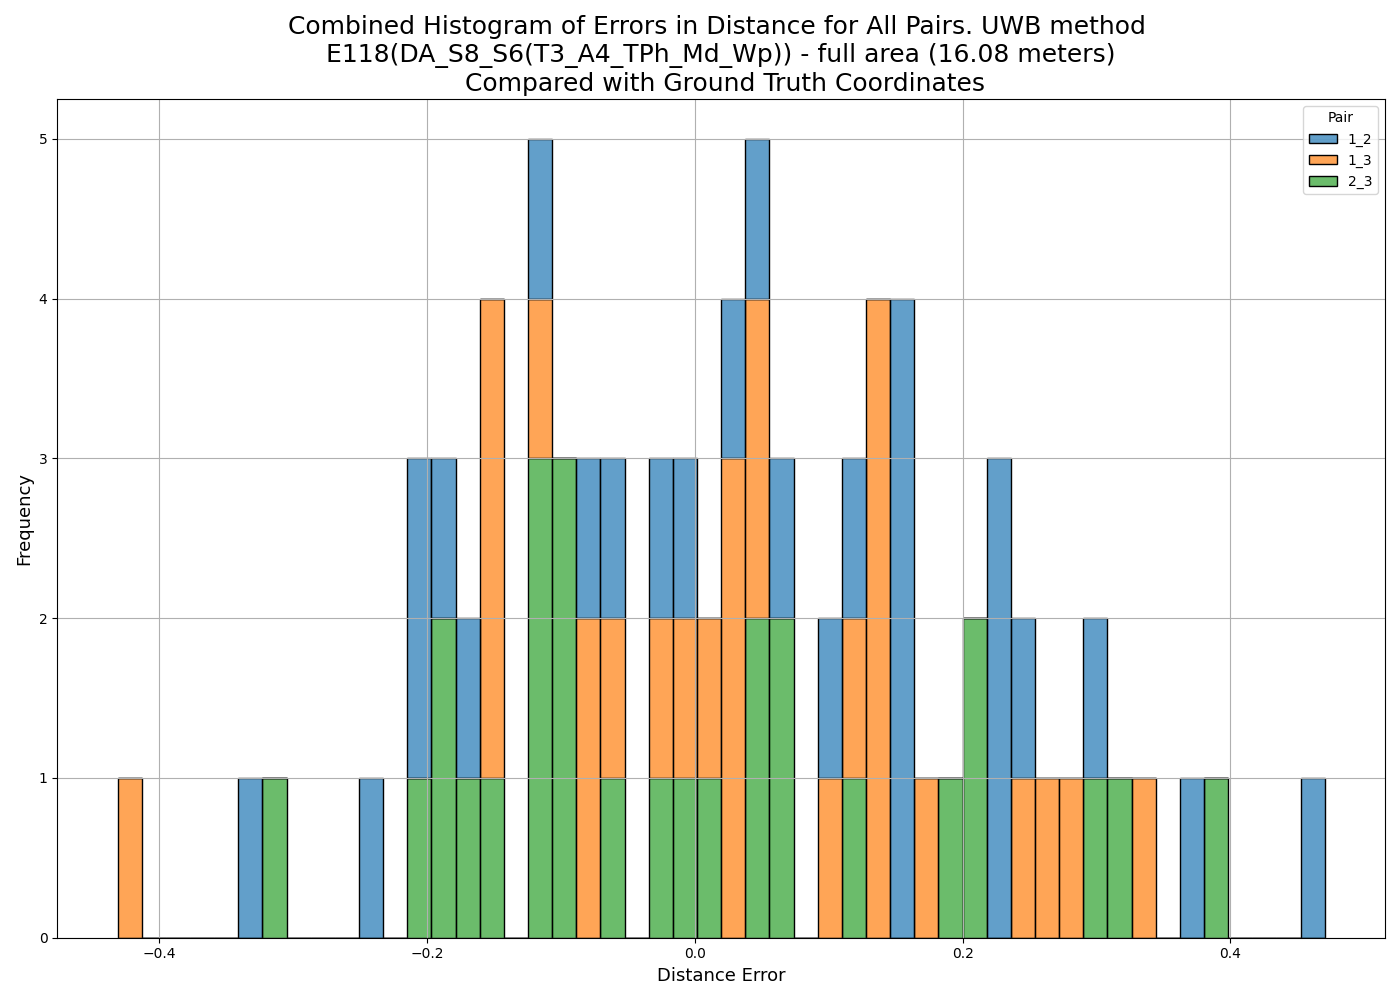
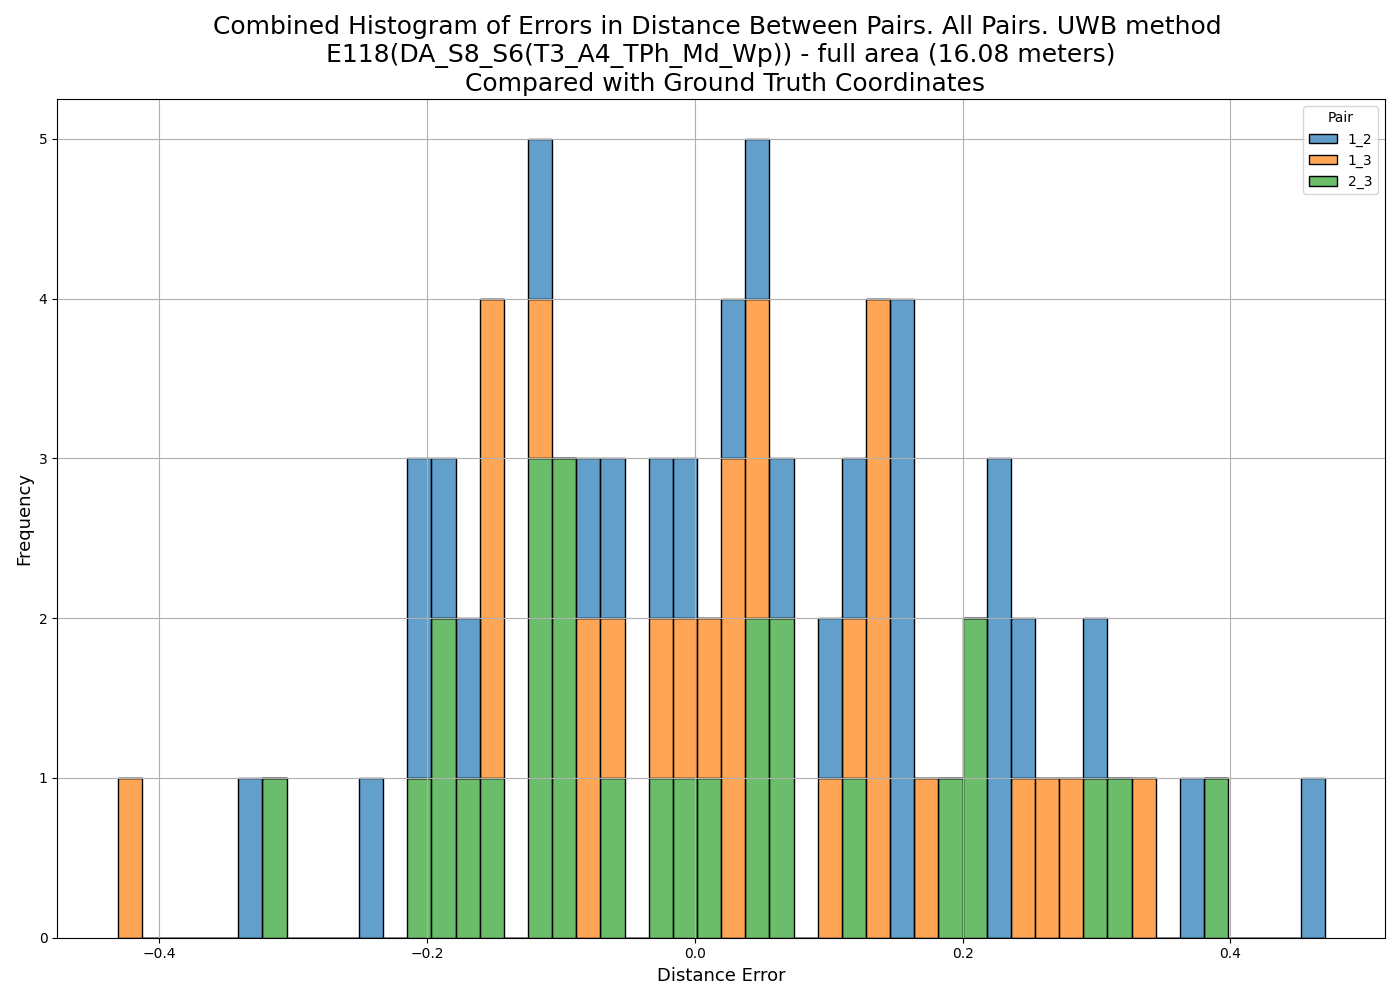
diagrams change

Changed region(s): [[0.1536, 0.0, 0.86, 0.031]]

diff --git a/Data for analysis/Data for comparison/evaluation_of_distances_between_people.py b/Data for analysis/Data for comparison/evaluation_of_distances_between_people.py
@@ -101,7 +101,7 @@ def plotStatistics(errorsByPair, statsSummary, method, titleSuffix, folderToSave
     # Plot combined boxplot
     plt.figure(figsize=(12, 6))
     sns.boxplot(data=combinedErrors, x='Pair', y='Error')
-    plt.title(f'Combined Boxplot of Errors in Distance for All Pairs. {method} method \n {titleSuffix}', fontsize=18)
+    plt.title(f'Combined Boxplot of Errors in Distance Between Pairs. All Pairs. {method} method \n {titleSuffix}', fontsize=18)
     plt.ylabel('Distance Error', fontsize=13)
     plt.xlabel('Pairs of Participants', fontsize=12)
     plt.xticks(fontsize=10)
@@ -113,7 +113,7 @@ def plotStatistics(errorsByPair, statsSummary, method, titleSuffix, folderToSave
     # Plot combined histogram
     plt.figure(figsize=(14, 10))
     sns.histplot(data=combinedErrors, x='Error', hue='Pair', bins=50, multiple='stack', alpha=0.7)
-    plt.title(f'Combined Histogram of Errors in Distance for All Pairs. {method} method \n {titleSuffix}', fontsize=18)
+    plt.title(f'Combined Histogram of Errors in Distance Between Pairs. All Pairs. {method} method \n {titleSuffix}', fontsize=18)
     plt.xlabel('Distance Error', fontsize=13)
     plt.ylabel('Frequency', fontsize=13)
     plt.grid(True)
